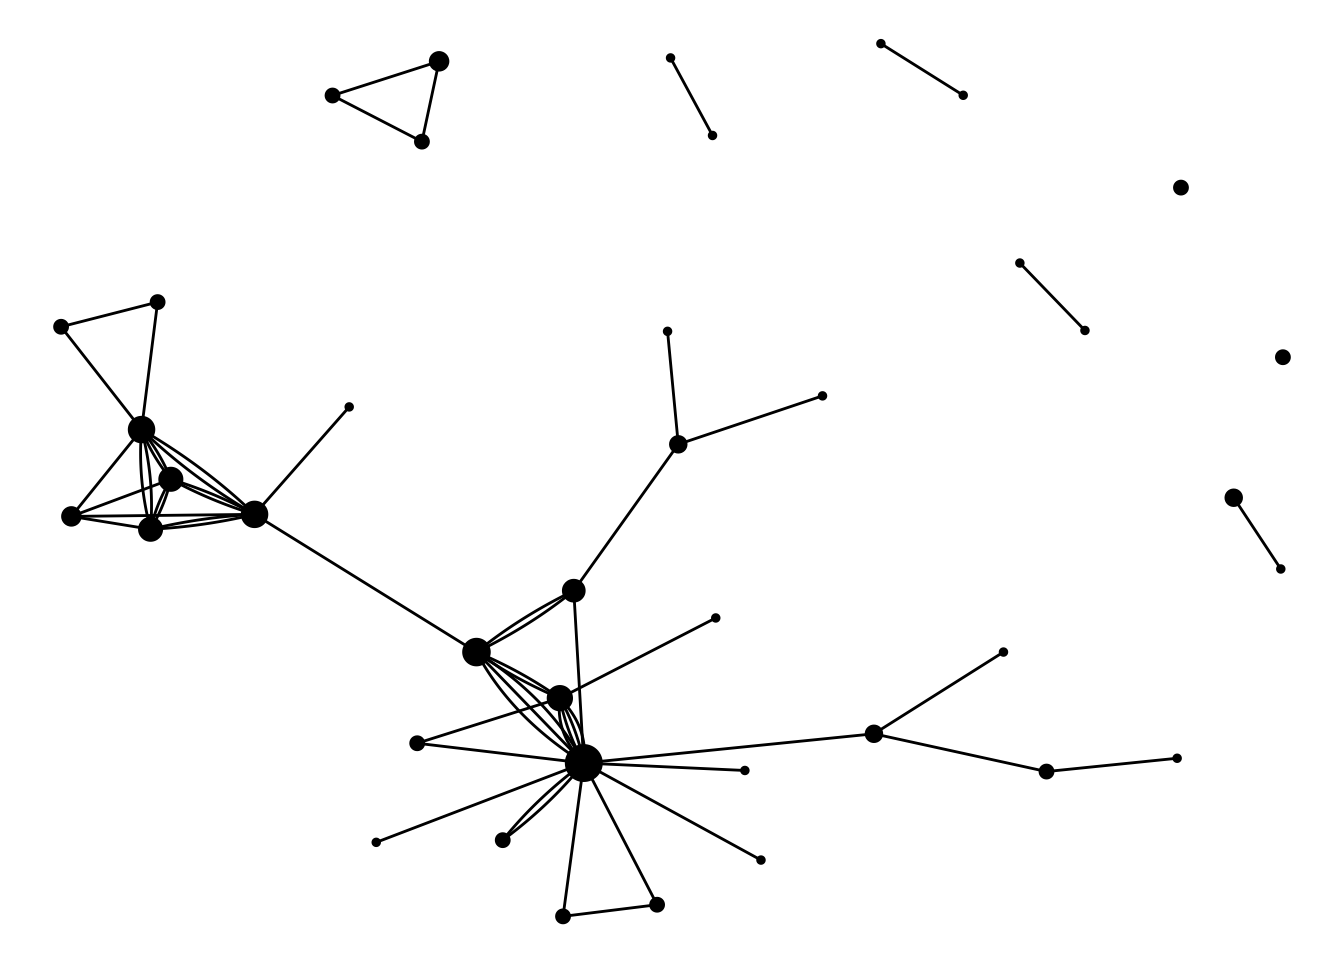
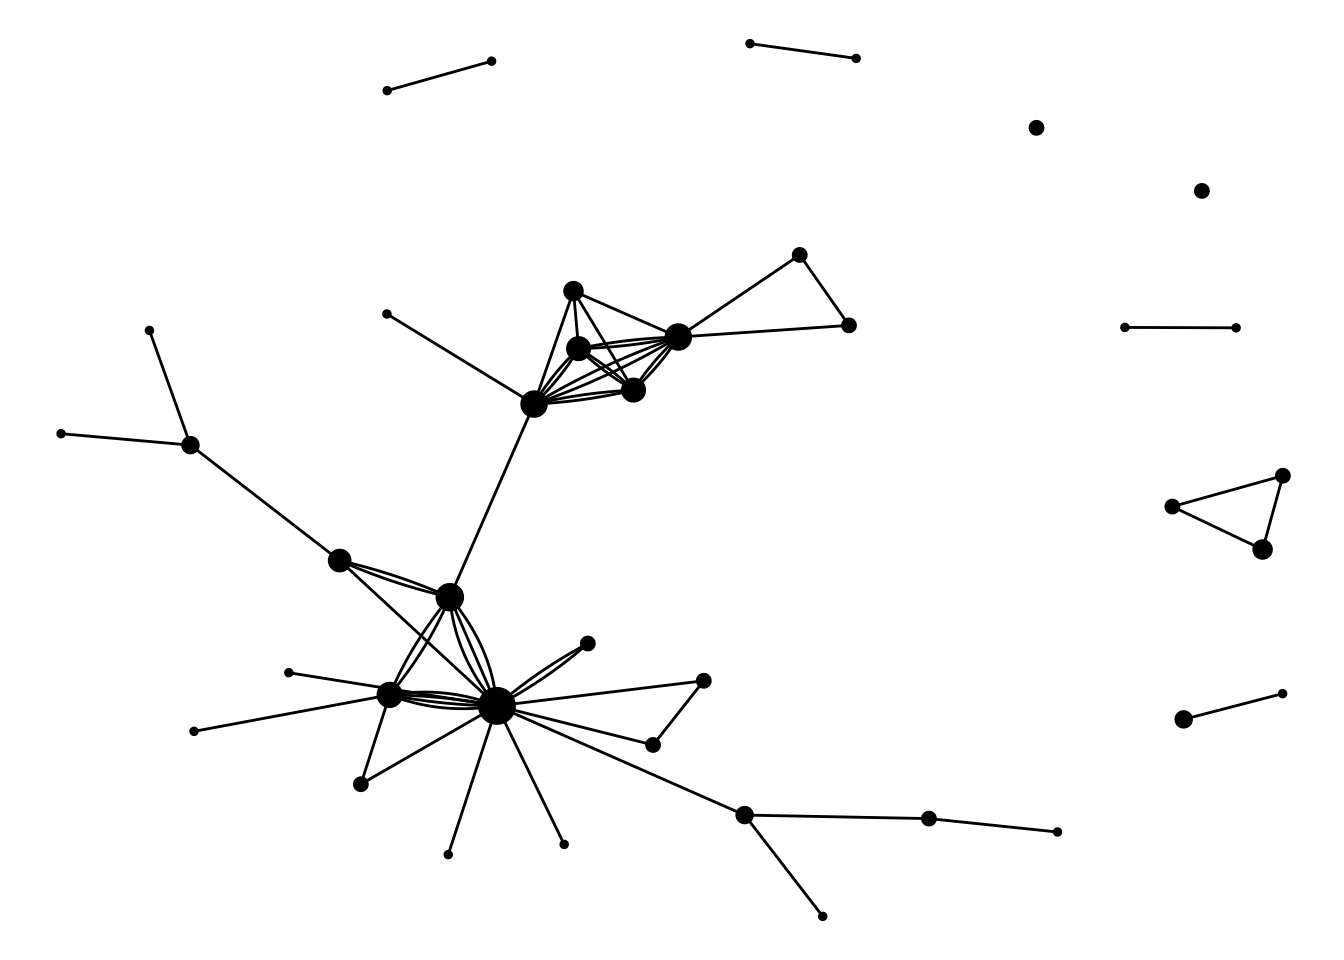
Update caption

diff --git a/content/post/2019-02-14-relayverse.html b/content/post/2019-02-14-relayverse.html
@@ -24,8 +24,8 @@ draft: no
 
 <p>Matt Dray (<a href="https://www.twitter.com/mattdray">@mattdray</a>)</p>
 <div class="figure">
-<img src="https://media.giphy.com/media/3gMrq5dCgRelOqQKJG/giphy.gif" alt="The Relayverse, visualised. Scroll to the bottom to try it yourself." />
-<p class="caption">The Relayverse, visualised. Scroll to the bottom to try it yourself.</p>
+<img src="https://media.giphy.com/media/3gMrq5dCgRelOqQKJG/giphy.gif" alt="The Relay FM host/podcast network, visualised. Scroll to the bottom of this post to try it yourself." />
+<p class="caption">The Relay FM host/podcast network, visualised. Scroll to the bottom of this post to try it yourself.</p>
 </div>
 <div id="podcast-networks" class="section level1">
 <h1>Podcast networks</h1>
@@ -122,17 +122,17 @@ shows_clean &lt;- shows %&gt;%
 
 # Print a random sample of 10
 sample_n(shows_clean, 10)</code></pre>
-<pre><code>##            Podcast              Hosts  Status
-## 6   The Pen Addict        Myke Hurley Current
-## 18 Mac Power Users        Katie Floyd Current
-## 58      Automators       David Sparks Current
-## 59      Automators       Rose Orchard Current
-## 25        Material       Florence Ion Current
-## 28        Top Four       Marco Arment Current
-## 17 Mac Power Users       David Sparks Current
-## 2       Analog(ue)         Casey Liss Current
-## 40      Disruption       Steve Lubitz Current
-## 43      Ungeniused Stephen M. Hackett Current</code></pre>
+<pre><code>##        Podcast              Hosts  Status
+## 9    Clockwise      Mikah Sargent Current
+## 82      Canvas   Federico Viticci Retired
+## 13     BONANZA     Matt Alexander Current
+## 66  The Prompt   Federico Viticci Retired
+## 54       Query Stephen M. Hackett Current
+## 74   Isometric         Brianna Wu Retired
+## 75   Isometric        Georgia Dow Retired
+## 42 Presentable          Jeff Veen Current
+## 11     Upgrade        Jason Snell Current
+## 71 Inquisitive        Myke Hurley Retired</code></pre>
 <p>Our dataframe is now tidy and ready for Tidygraph, but before moving on, we can do things like look at the host with the most active shows.</p>
 <pre class="r"><code>shows_clean %&gt;% 
   filter(Status == &quot;Current&quot;) %&gt;% 
@@ -252,54 +252,54 @@ sample_n(relay_combos, 10) %&gt;% knitr::kable()  # random sample of 10</code></
 </thead>
 <tbody>
 <tr class="odd">
-<td align="left">Russell Ivanovic</td>
-<td align="left">Florence Ion</td>
-<td align="left">Material</td>
+<td align="left">K Tempest Bradford</td>
+<td align="left">Aleen Simms</td>
+<td align="left">Originality</td>
 </tr>
 <tr class="even">
-<td align="left">Steve Lubitz</td>
-<td align="left">Mikah Sargent</td>
-<td align="left">Disruption</td>
-</tr>
-<tr class="odd">
-<td align="left">Myke Hurley</td>
-<td align="left">Jason Snell</td>
-<td align="left">Upgrade</td>
-</tr>
-<tr class="even">
-<td align="left">Dan Provost</td>
-<td align="left">Myke Hurley</td>
-<td align="left">Thoroughly Considered</td>
-</tr>
-<tr class="odd">
-<td align="left">CGP Grey</td>
-<td align="left">Myke Hurley</td>
-<td align="left">Cortex</td>
-</tr>
-<tr class="even">
-<td align="left">Shelly Brisbin</td>
-<td align="left">Shelly Brisbin</td>
-<td align="left">Parallel</td>
+<td align="left">Aleen Simms</td>
+<td align="left">Aleen Simms</td>
+<td align="left">Less Than or Equal</td>
 </tr>
 <tr class="odd">
 <td align="left">Brianna Wu</td>
 <td align="left">Mikah Sargent</td>
-<td align="left">Disruption</td>
-</tr>
-<tr class="even">
-<td align="left">Stephen M. Hackett</td>
-<td align="left">Mikah Sargent</td>
-<td align="left">Query</td>
-</tr>
-<tr class="odd">
-<td align="left">Georgia Dow</td>
-<td align="left">Mikah Sargent</td>
 <td align="left">Isometric</td>
 </tr>
 <tr class="even">
-<td align="left">Quinn Rose</td>
-<td align="left">Gillian Parker</td>
-<td align="left">Mixed Feelings</td>
+<td align="left">CGP Grey</td>
+<td align="left">Myke Hurley</td>
+<td align="left">Cortex</td>
+</tr>
+<tr class="odd">
+<td align="left">Federico Viticci</td>
+<td align="left">Shahid Kamal Ahmad</td>
+<td align="left">Remaster</td>
+</tr>
+<tr class="even">
+<td align="left">Myke Hurley</td>
+<td align="left">Stephen M. Hackett</td>
+<td align="left">Connected</td>
+</tr>
+<tr class="odd">
+<td align="left">Myke Hurley</td>
+<td align="left">Casey Liss</td>
+<td align="left">Analog(ue)</td>
+</tr>
+<tr class="even">
+<td align="left">Myke Hurley</td>
+<td align="left">Brad Dowdy</td>
+<td align="left">The Pen Addict</td>
+</tr>
+<tr class="odd">
+<td align="left">Myke Hurley</td>
+<td align="left">Myke Hurley</td>
+<td align="left">Inquisitive</td>
+</tr>
+<tr class="even">
+<td align="left">Myke Hurley</td>
+<td align="left">Matt Alexander</td>
+<td align="left">BONANZA</td>
 </tr>
 </tbody>
 </table>
